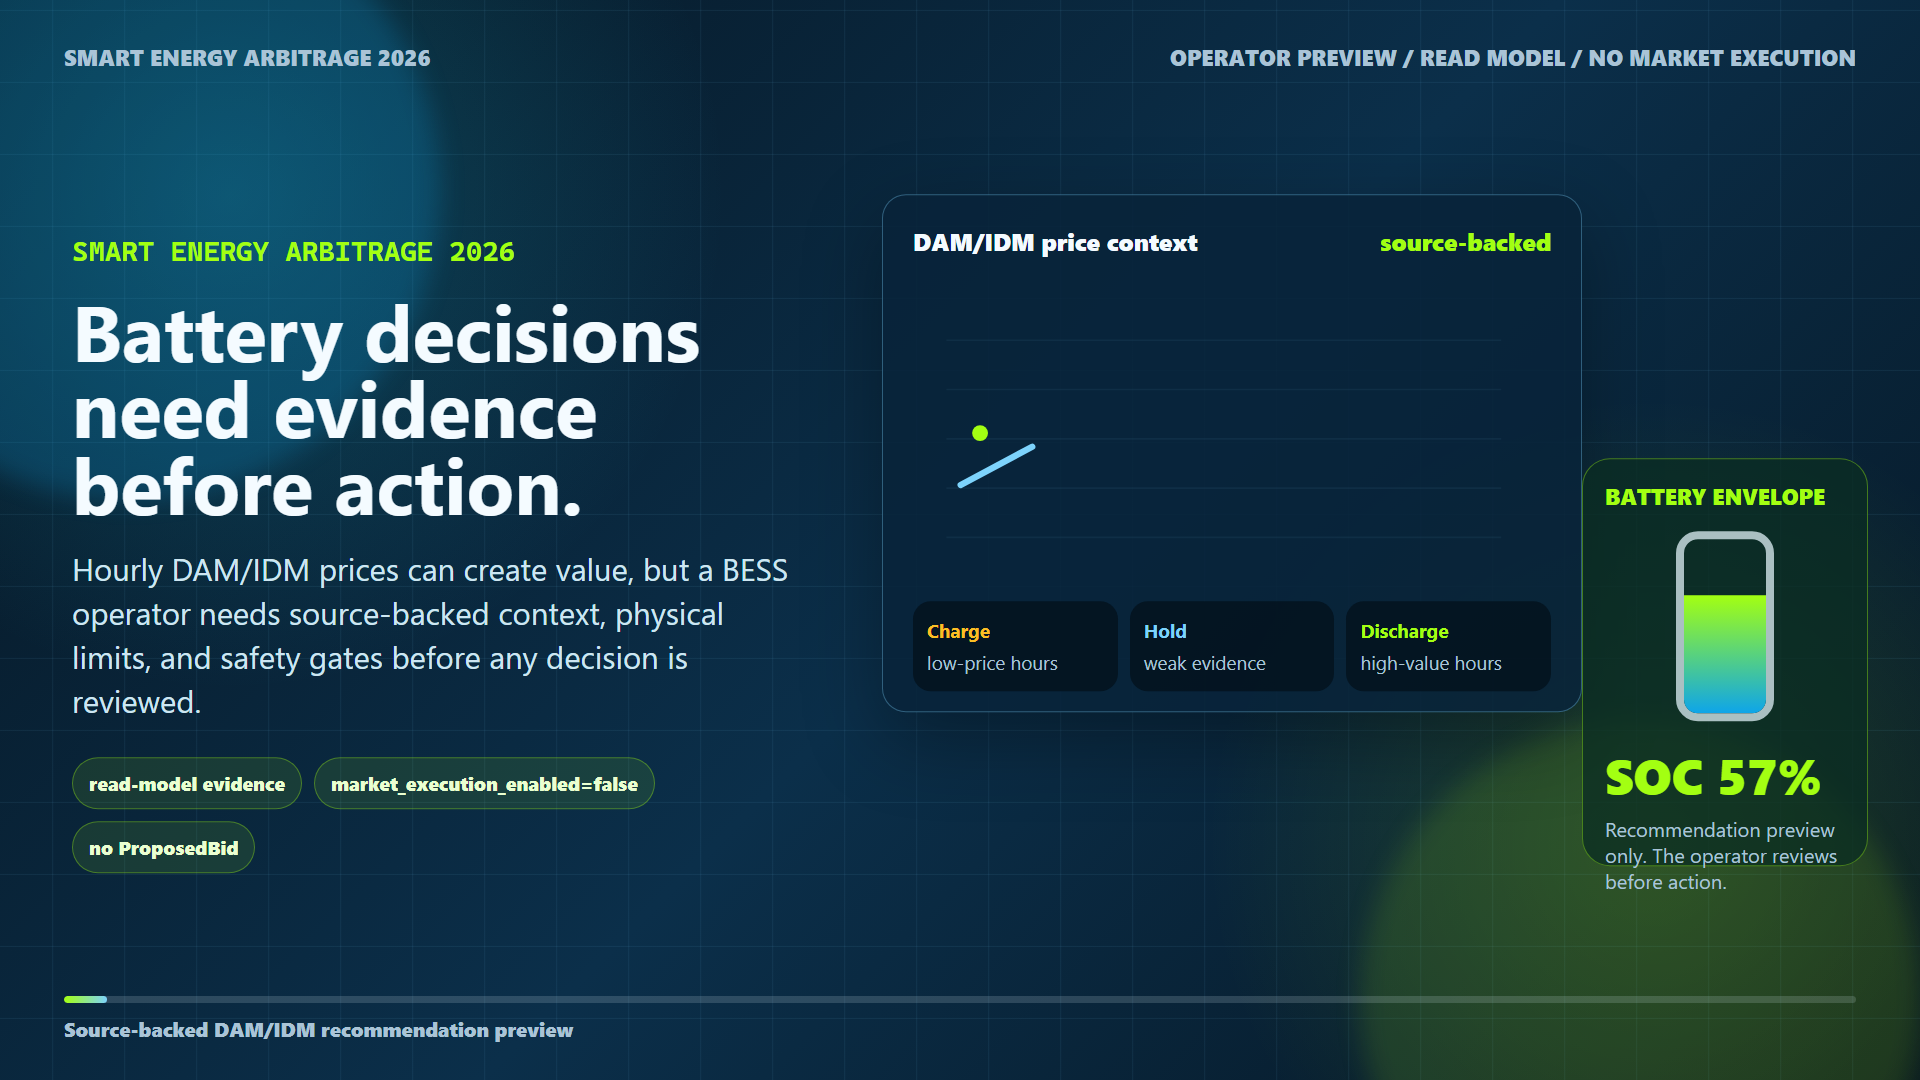
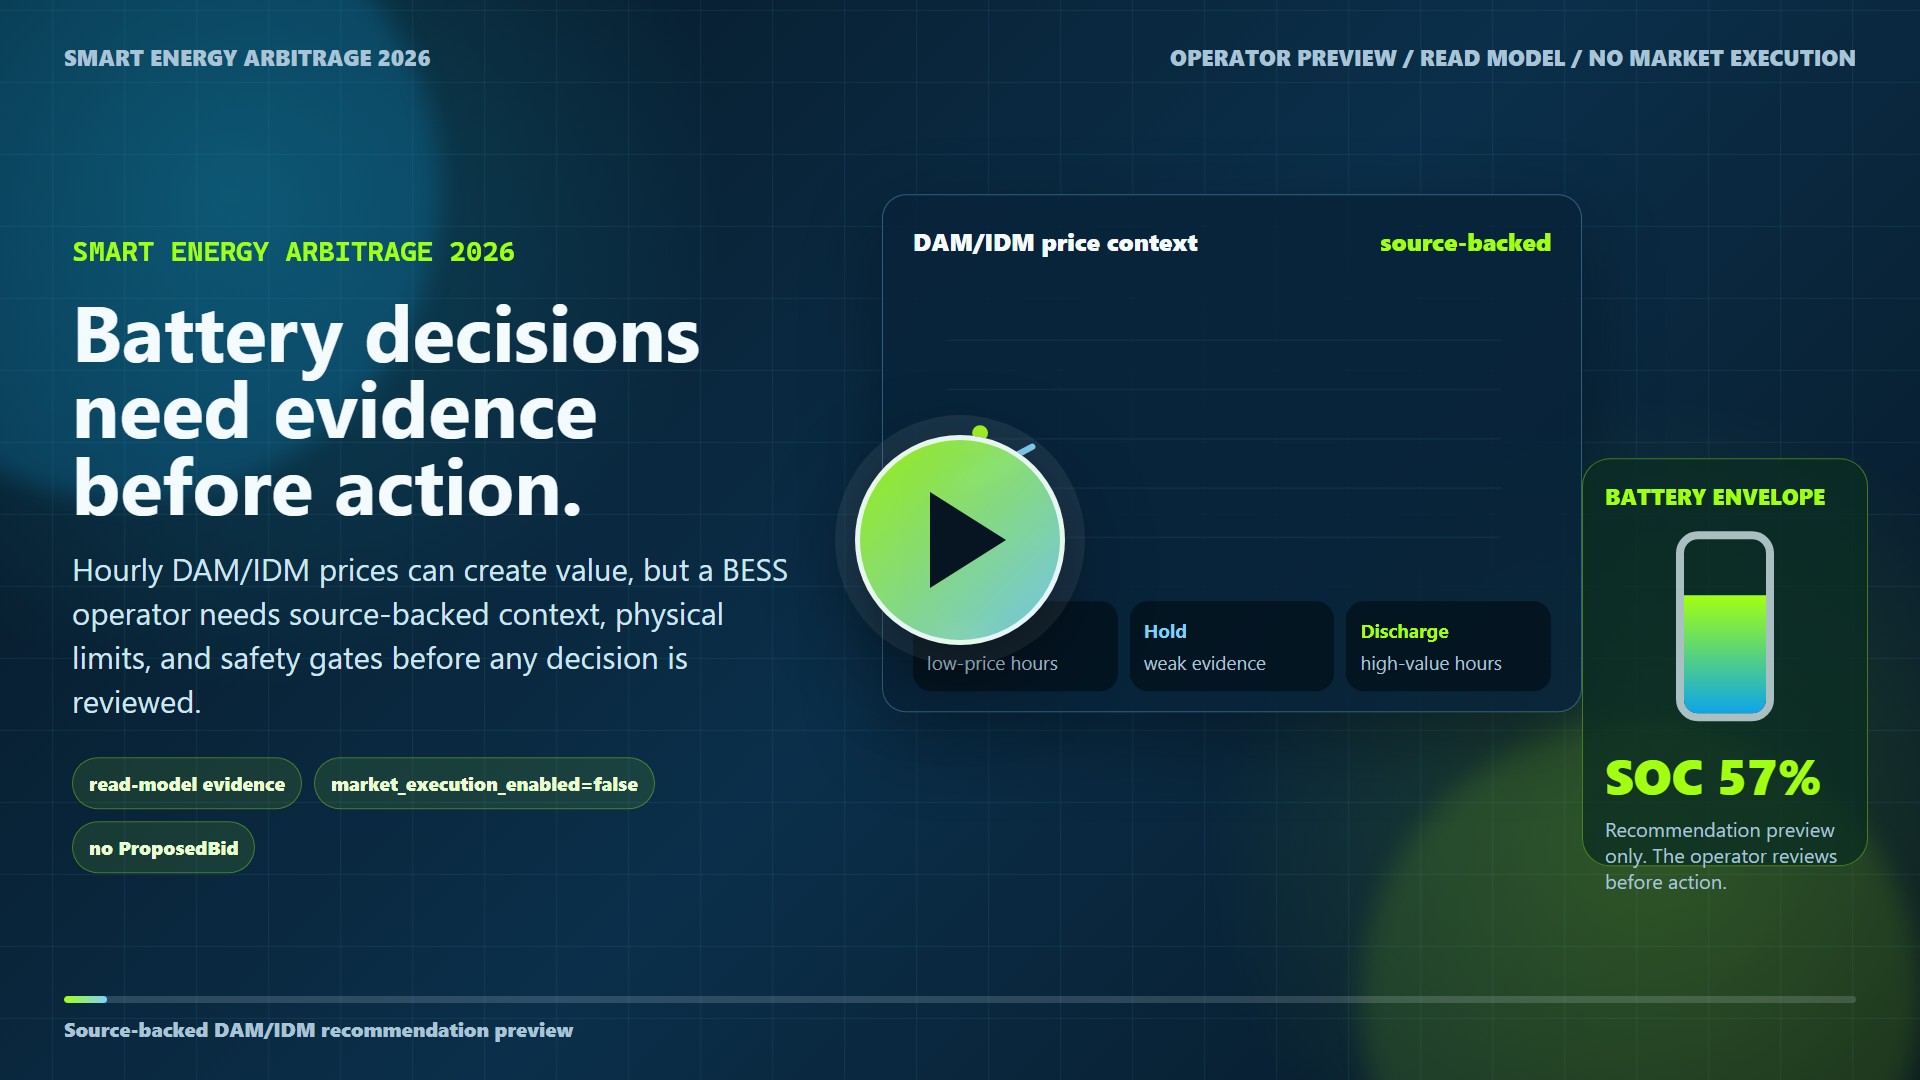
Add play overlay to intro video poster

Changed region(s): [[0.4375, 0.3972, 0.5625, 0.6417]]

diff --git a/tools/project-intro-video/src/video.tsx b/tools/project-intro-video/src/video.tsx
@@ -59,6 +59,25 @@ export const ProjectIntro: React.FC = () => {
   );
 };
 
+export const ProjectIntroPoster: React.FC = () => {
+  return (
+    <>
+      <ProjectIntro />
+      <PosterPlayOverlay />
+    </>
+  );
+};
+
+const PosterPlayOverlay: React.FC = () => {
+  return (
+    <AbsoluteFill style={posterOverlayStyle}>
+      <div style={posterPlayButtonStyle}>
+        <div style={posterPlayTriangleStyle} />
+      </div>
+    </AbsoluteFill>
+  );
+};
+
 const activeScene = (time: number): SceneConfig => {
   return scenes.find((scene) => time >= scene.start && time < scene.end) ?? scenes[scenes.length - 1];
 };
@@ -379,6 +398,37 @@ const rootStyle: React.CSSProperties = {
   color: colors.text,
   fontFamily: "Inter, Segoe UI, Arial, sans-serif",
   overflow: "hidden",
+};
+
+const posterOverlayStyle: React.CSSProperties = {
+  alignItems: "center",
+  display: "flex",
+  justifyContent: "center",
+  pointerEvents: "none",
+  zIndex: 30,
+};
+
+const posterPlayButtonStyle: React.CSSProperties = {
+  alignItems: "center",
+  backdropFilter: "blur(10px)",
+  background:
+    "linear-gradient(135deg, rgba(163,255,18,0.92), rgba(125,211,252,0.92))",
+  border: "5px solid rgba(244,251,255,0.88)",
+  borderRadius: "50%",
+  boxShadow: "0 28px 90px rgba(0,0,0,0.46), 0 0 0 20px rgba(244,251,255,0.08)",
+  display: "flex",
+  height: 210,
+  justifyContent: "center",
+  width: 210,
+};
+
+const posterPlayTriangleStyle: React.CSSProperties = {
+  borderBottom: "48px solid transparent",
+  borderLeft: "76px solid #061521",
+  borderTop: "48px solid transparent",
+  height: 0,
+  marginLeft: 16,
+  width: 0,
 };
 
 const chromeStyle: React.CSSProperties = {

diff --git a/tools/project-intro-video/src/root.tsx b/tools/project-intro-video/src/root.tsx
@@ -1,6 +1,6 @@
 import React from "react";
 import { Composition } from "remotion";
-import { ProjectIntro } from "./video";
+import { ProjectIntro, ProjectIntroPoster } from "./video";
 
 export const FPS = 30;
 export const WIDTH = 1920;
@@ -9,13 +9,23 @@ export const DURATION_SECONDS = 126;
 
 export const RemotionRoot: React.FC = () => {
   return (
-    <Composition
-      id="ProjectIntro"
-      component={ProjectIntro}
-      durationInFrames={DURATION_SECONDS * FPS}
-      fps={FPS}
-      height={HEIGHT}
-      width={WIDTH}
-    />
+    <>
+      <Composition
+        id="ProjectIntro"
+        component={ProjectIntro}
+        durationInFrames={DURATION_SECONDS * FPS}
+        fps={FPS}
+        height={HEIGHT}
+        width={WIDTH}
+      />
+      <Composition
+        id="ProjectIntroPoster"
+        component={ProjectIntroPoster}
+        durationInFrames={DURATION_SECONDS * FPS}
+        fps={FPS}
+        height={HEIGHT}
+        width={WIDTH}
+      />
+    </>
   );
 };

diff --git a/dashboard/app/utils/removedReportRoutesArchitecture.test.ts b/dashboard/app/utils/removedReportRoutesArchitecture.test.ts
@@ -14,8 +14,7 @@ const week1DocsPath = fileURLToPath(new URL('../../../docs/thesis/weekly-reports
 const docsEntrypointPaths = [
   fileURLToPath(new URL('../../../docs/README.md', import.meta.url)),
   fileURLToPath(new URL('../../../docs/technical/OPERATOR_DEMO_READY.md', import.meta.url)),
-  fileURLToPath(new URL('../../../docs/technical/API_ENDPOINTS.md', import.meta.url)),
-  fileURLToPath(new URL('../../../docs/technical/deep-research-reports/week3 research/Research Summary Integration.md', import.meta.url))
+  fileURLToPath(new URL('../../../docs/technical/API_ENDPOINTS.md', import.meta.url))
 ]
 
 describe('removed report routes architecture', () => {
